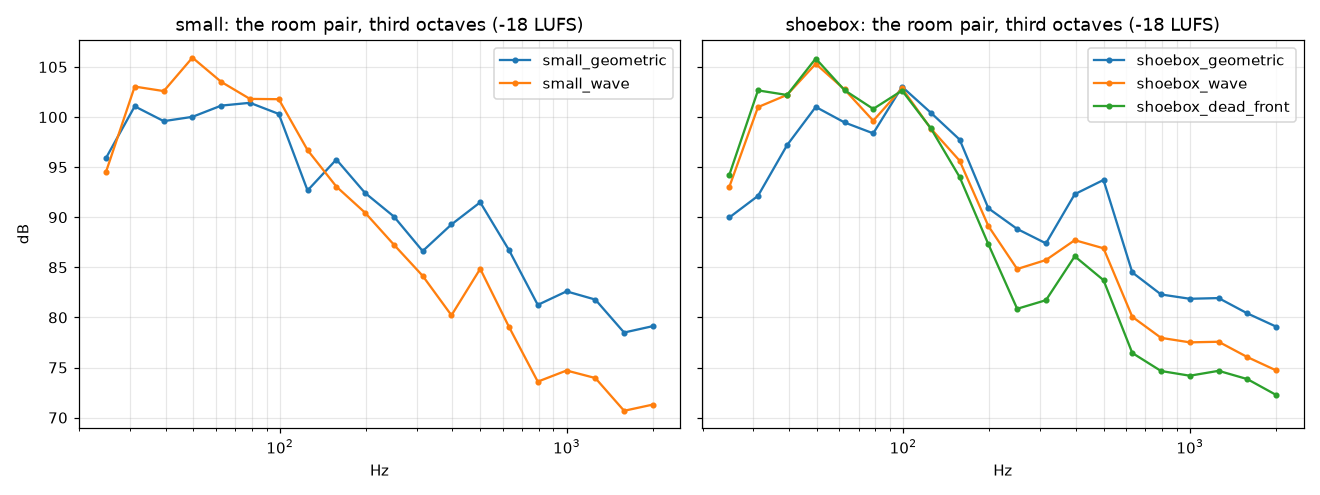
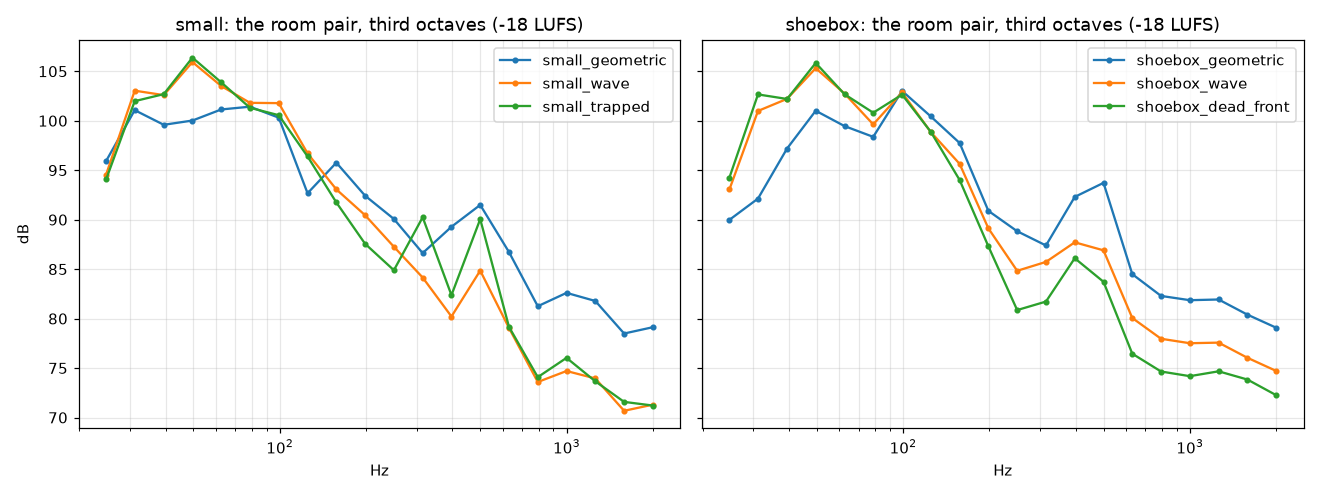
Rooms: wall treatments from their physics
varimu/rooms/materials.py (MIC_ROOM_PLAN.md A5's "materials from physics"): a
treatment's locally reacting impedance from its construction, its
random-incidence absorption by Paris' average per band. Porous layers by
Miki's model (flow resistivity, thickness, an air gap behind), panel absorbers
as a mass on a cavity. New materials mineral_wool_50mm, mineral_wool_100mm,
wool_100mm_gap_100mm, foam_25mm, panel_trap_plywood (~58 Hz), in the Room
view too (a test keeps its list and Python's the same). The demo
wave_demo/small_trapped: every band decays faster.

diff --git a/varimu/rooms/materials.py b/varimu/rooms/materials.py
@@ -1,0 +1,156 @@
+"""Wall treatments from their physics (MIC_ROOM_PLAN.md A5's "materials from physics"): a
+surface's absorption computed from its construction, not looked up.
+
+Every treatment here is a locally reacting surface impedance Z_s(f) (the project's e^{jwt},
+outgoing e^{-jkx}); a plane wave at angle t from the normal reflects with R = (Z_s cos t - rho c)
+/ (Z_s cos t + rho c), and the random-incidence absorption is Paris' average of 1 - |R|^2 over
+the half space (the wave solver's mapping, varimu.rooms.wave, the other way round). Averaged
+over each octave band (log-spaced points) it is the material's row in ROOM_MATERIALS.
+
+- **Porous layers** (mineral wool, fibreglass, foam) from their flow resistivity sigma: Miki's
+  regression of Delany and Bazley's measurements ("Acoustical properties of porous materials:
+  modifications of Delany-Bazley models", J. Acoust. Soc. Jpn (E) 11(1), 1990), valid for
+  0.01 < f / sigma < 1: characteristic impedance Z_c = rho c (1 + 0.070 X^-0.632 - j 0.107
+  X^-0.632) and wavenumber k_c = (w / c)(1 + 0.109 X^-0.618 - j 0.160 X^-0.618), X = f / sigma.
+  A layer d thick on a rigid wall: Z_s = -j Z_c cot(k_c d); over an air gap D: the gap's -j rho
+  c cot(k D) carried through the layer (Z_in = Z_c (Z_L + j Z_c tan k_c d) / (Z_c + j Z_L tan
+  k_c d)), the gap partitioned (locally reacting).
+- **Panel absorbers** (a membrane, a plywood or gypsum panel over a cavity): Z_s = j w m + r +
+  Z_cavity, m the panel's mass per area, r its loss, the cavity empty or filled with a porous
+  layer: a resonance near 60 / sqrt(m D) Hz (m in kg/m^2, D in m), the classic bass trap.
+
+Flow resistivities, masses and losses are provisional (model knowledge: typical published
+values for 30-50 kg/m^3 mineral wool, plywood and gypsum board).
+"""
+
+from __future__ import annotations
+
+from dataclasses import dataclass
+
+import numpy as np
+
+from varimu.separation.room import BANDS_HZ, SPEED_OF_SOUND_M_S
+
+RHO_AIR = 1.204  # kg/m^3 at 20 C
+SOURCE = (
+    "provisional: model knowledge (flow resistivity of 30-50 kg/m^3 mineral wool ~8-20 kPa s/m^2; "
+    "12.5 mm gypsum board ~10 kg/m^2, 12 mm plywood ~7 kg/m^2; panel losses ~0.1-0.3 rho c), "
+    "the models: Miki 1990 (porous), the mass-spring panel"
+)
+
+
+def miki(f_hz, sigma: float) -> tuple[np.ndarray, np.ndarray]:
+    """A porous material's characteristic impedance and wavenumber (Miki 1990)."""
+    f = np.asarray(f_hz, float)
+    x = np.maximum(f, 1e-3) / sigma
+    zc = RHO_AIR * SPEED_OF_SOUND_M_S * (1 + 0.070 * x**-0.632 - 1j * 0.107 * x**-0.632)
+    kc = 2 * np.pi * f / SPEED_OF_SOUND_M_S * (1 + 0.109 * x**-0.618 - 1j * 0.160 * x**-0.618)
+    return zc, kc
+
+
+def _through(zc, kc, d, z_load):
+    """An impedance seen through a layer (characteristic impedance zc, wavenumber kc, d thick)
+    in front of z_load (None: rigid)."""
+    t = np.tan(kc * d)
+    if z_load is None:
+        return -1j * zc / t
+    return zc * (z_load + 1j * zc * t) / (zc + 1j * z_load * t)
+
+
+@dataclass(frozen=True)
+class Porous:
+    """A porous layer `thickness_m` thick, flow resistivity `sigma` (Pa s / m^2), on a rigid
+    wall or over an air gap `gap_m`."""
+
+    sigma: float
+    thickness_m: float
+    gap_m: float = 0.0
+
+    def impedance(self, f_hz) -> np.ndarray:
+        f = np.asarray(f_hz, float)
+        zc, kc = miki(f, self.sigma)
+        load = None
+        if self.gap_m > 0:
+            k0 = 2 * np.pi * np.maximum(f, 1e-3) / SPEED_OF_SOUND_M_S
+            load = -1j * RHO_AIR * SPEED_OF_SOUND_M_S / np.tan(k0 * self.gap_m)
+        return _through(zc, kc, self.thickness_m, load)
+
+
+@dataclass(frozen=True)
+class Panel:
+    """A panel of `mass_kg_m2` per area with loss `loss` (in rho c) over a cavity `cavity_m`
+    deep, empty or filled with a porous layer of flow resistivity `fill_sigma`."""
+
+    mass_kg_m2: float
+    cavity_m: float
+    loss: float = 0.2
+    fill_sigma: float | None = None
+
+    def impedance(self, f_hz) -> np.ndarray:
+        f = np.maximum(np.asarray(f_hz, float), 1e-3)
+        w = 2 * np.pi * f
+        rc = RHO_AIR * SPEED_OF_SOUND_M_S
+        if self.fill_sigma:
+            zc, kc = miki(f, self.fill_sigma)
+            cav = _through(zc, kc, self.cavity_m, None)
+        else:
+            cav = -1j * rc / np.tan(w / SPEED_OF_SOUND_M_S * self.cavity_m)
+        return 1j * w * self.mass_kg_m2 + self.loss * rc + cav
+
+    def resonance_hz(self) -> float:
+        """The mass on the cavity's air spring (empty cavity, low-frequency limit)."""
+        rc2 = RHO_AIR * SPEED_OF_SOUND_M_S**2
+        return float(np.sqrt(rc2 / (self.mass_kg_m2 * self.cavity_m)) / (2 * np.pi))
+
+
+def absorption(z_s: np.ndarray, angles: int = 181) -> np.ndarray:
+    """Random-incidence absorption of a locally reacting surface impedance (Paris)."""
+    th = np.linspace(0, np.pi / 2, angles)
+    c = np.cos(th)[None, :]
+    rc = RHO_AIR * SPEED_OF_SOUND_M_S
+    z = np.atleast_1d(z_s)[:, None]
+    r = (z * c - rc) / (z * c + rc)
+    a = 1 - np.abs(r) ** 2
+    return np.trapezoid(a * np.sin(2 * th)[None, :], th, axis=1)
+
+
+def normal_absorption(z_s: np.ndarray) -> np.ndarray:
+    rc = RHO_AIR * SPEED_OF_SOUND_M_S
+    r = (np.asarray(z_s) - rc) / (np.asarray(z_s) + rc)
+    return 1 - np.abs(r) ** 2
+
+
+def band_absorption(model) -> tuple[float, ...]:
+    """A treatment's random-incidence absorption per octave band (BANDS_HZ), each the mean over
+    15 log-spaced points across its octave; the lowest band over the octave below it too (it
+    stands for every frequency under 125 Hz in the rooms' band weights: a bass trap tuned to
+    ~60 Hz shows there)."""
+    out = []
+    for b, fc in enumerate(BANDS_HZ):
+        lo = fc / (2 * np.sqrt(2)) if b == 0 else fc / np.sqrt(2)
+        f = np.geomspace(lo, fc * np.sqrt(2), 15 if b else 25)
+        out.append(round(float(np.mean(absorption(model.impedance(f)))), 4))
+    return tuple(out)
+
+
+# The treatments offered as materials (ROOM_MATERIALS gets their bands; SCATTERING theirs).
+TREATMENTS = {
+    "mineral_wool_50mm": Porous(sigma=12_000.0, thickness_m=0.05),
+    "mineral_wool_100mm": Porous(sigma=10_000.0, thickness_m=0.10),
+    "wool_100mm_gap_100mm": Porous(sigma=10_000.0, thickness_m=0.10, gap_m=0.10),
+    "foam_25mm": Porous(sigma=20_000.0, thickness_m=0.025),
+    "panel_trap_plywood": Panel(mass_kg_m2=7.0, cavity_m=0.15, loss=0.15, fill_sigma=8_000.0),
+}
+# (An ordinary stud wall stays the measured `gypsum_on_studs`: as a lightly damped panel on an
+# empty cavity it absorbs far less than real walls, whose studs and fixings lose energy.)
+TREATMENT_SCATTERING = {
+    "mineral_wool_50mm": 0.1,
+    "mineral_wool_100mm": 0.1,
+    "wool_100mm_gap_100mm": 0.1,
+    "foam_25mm": 0.15,
+    "panel_trap_plywood": 0.1,
+}
+
+
+def treatment_materials() -> dict[str, tuple[float, ...]]:
+    return {name: band_absorption(m) for name, m in TREATMENTS.items()}

diff --git a/tests/test_rooms.py b/tests/test_rooms.py
@@ -707,8 +707,9 @@ def test_a_source_against_a_wall_and_a_mic_in_an_amp():
     b = _wave_or_skip()
     room = _rect_room()
     mics = [Mic(np.array([3.0, 2.5, 1.2]), aim_vector(0), _omni())]
-    low, _ = wave.responses(room, [np.array([0.01, 2.0, 1.2])], mics, FS, 1 << 16,
-                            crossover_hz=250, rt_s=np.full(7, 0.1), length_s=0.1, backend=b)  # fmt: skip
+    src = [np.array([0.01, 2.0, 1.2])]
+    low, _ = wave.responses(room, src, mics, FS, 1 << 16, crossover_hz=250,
+                            rt_s=np.full(7, 0.1), length_s=0.1, backend=b)  # fmt: skip
     assert np.all(np.isfinite(low)) and np.any(low != 0)
     scene = load_scene({
         "name": "t", "room": {"floor_m": RECT, "materials": dict(zip(
@@ -719,3 +720,44 @@ def test_a_source_against_a_wall_and_a_mic_in_an_amp():
     })  # fmt: skip
     with pytest.raises(ValueError, match="inside amp's body"):
         mic_pressures(scene, FS, [np.ones(100)])
+
+
+# --- treatments from their physics (MIC_ROOM_PLAN.md A5's "materials from physics") ---
+
+
+def test_porous_layers_absorb_as_their_thickness_and_gap_say():
+    from varimu.rooms import materials as m
+
+    f = np.array([125.0, 500.0, 4000.0])
+    thin = m.normal_absorption(m.Porous(10_000.0, 0.05).impedance(f))
+    assert thin[0] < 0.15 and thin[2] > 0.9  # transparent to the bass, black to the highs
+    thick = m.absorption(m.Porous(10_000.0, 0.10).impedance(f))
+    gap = m.absorption(m.Porous(10_000.0, 0.10, gap_m=0.10).impedance(f))
+    base = m.absorption(m.Porous(10_000.0, 0.05).impedance(f))
+    assert base[0] < thick[0] < gap[0]  # thicker, then spaced off the wall: more bass
+    assert np.all(m.absorption(np.full(3, 1e9)) < 1e-3)  # a rigid wall absorbs nothing
+
+
+def test_a_panel_trap_absorbs_at_its_resonance():
+    from varimu.rooms import materials as m
+
+    trap = m.TREATMENTS["panel_trap_plywood"]
+    f = np.geomspace(20, 400, 400)
+    a = m.absorption(trap.impedance(f))
+    assert abs(f[np.argmax(a)] / trap.resonance_hz() - 1) < 0.2
+    bands = m.band_absorption(trap)
+    assert bands[0] > 0.25 and bands[2] < 0.05  # the bass, not the mids
+
+
+def test_the_room_views_surfaces_are_the_rooms_materials():
+    """Every surface the native app's Room view offers (room.rs MATERIALS) exists here."""
+    import re
+
+    from varimu.config import REPO_ROOT
+    from varimu.rooms.shoebox import ROOM_MATERIALS
+
+    src = (REPO_ROOT / "crates" / "varimu-app" / "src" / "room.rs").read_text(encoding="utf-8")
+    start = src.index("pub const MATERIALS")
+    block = src[start : src.index("];", start)]
+    names = re.findall(r'"([a-z0-9_]+)"', block)
+    assert len(names) >= 10 and set(names) <= set(ROOM_MATERIALS)

diff --git a/scripts/room_wave_demo.py b/scripts/room_wave_demo.py
@@ -17,7 +17,12 @@ Variants (each `<variant>/room_pair.wav` at -18 LUFS):
 - `shoebox_geometric`, `shoebox_wave`: the 7 x 5.5 x 3.2 m live room the same way;
 - `shoebox_dead_front` (R7, wave on): the shoebox with heavy drapes on the wall behind the
   players and plaster on the wall behind the pair (a "live end, dead end" room the other way
-  round), against `shoebox_wave`.
+  round), against `shoebox_wave`;
+- `small_trapped` (wave on): the small room treated from physics (varimu/rooms/materials.py):
+  100 mm of wool spaced 100 mm off both side walls (broadband, down into the bass), a plywood
+  panel bass trap (~58 Hz) on the wall behind the pair, against `small_wave`. (Panel traps on
+  whole walls alone made the room livelier above 250 Hz: plywood reflects the mids the
+  furnished walls absorbed.)
 
 `levels.png` and `levels.json`: each variant's third-octave levels at the pair (25 Hz-2 kHz).
 """
@@ -46,12 +51,19 @@ DEAD_FRONT = {
     **SHOEBOX,
     "materials": {**FURNISHED, "faces": {"wall 0": "heavy_drapes", "wall 2": "plaster"}},
 }
+TRAPPED = {
+    **SMALL,
+    "materials": {**FURNISHED, "faces": {"wall 1": "wool_100mm_gap_100mm",
+                                         "wall 3": "wool_100mm_gap_100mm",
+                                         "wall 2": "panel_trap_plywood"}},
+}  # fmt: skip
 VARIANTS = {
     "small_geometric": (SMALL, False),
     "small_wave": (SMALL, True),
     "shoebox_geometric": (SHOEBOX, False),
     "shoebox_wave": (SHOEBOX, True),
     "shoebox_dead_front": (DEAD_FRONT, True),
+    "small_trapped": (TRAPPED, True),
 }
 STEM = {"kick": ("01_Kick", 92.0), "bass": ("09_Bass", 90.0), "piano": ("15_Piano", 86.0)}
 PAIR = {"chain": "omni_clean", "set": {"gain_db_clean": 30}}

diff --git a/varimu/rooms/shoebox.py b/varimu/rooms/shoebox.py
@@ -35,6 +35,7 @@ import numpy as np
 import scipy.fft as sfft
 
 from varimu.rooms.entries import EntryTable
+from varimu.rooms.materials import treatment_materials
 from varimu.separation.room import (
     BANDS_HZ,
     MATERIALS,
@@ -47,6 +48,7 @@ SURFACES = ("x0", "x1", "y0", "y1", "floor", "ceiling")
 # tail; the anechoic check against scripts/mic_print.py).
 ROOM_MATERIALS = {
     **MATERIALS,
+    **treatment_materials(),  # treatments from their physics (varimu.rooms.materials)
     "anechoic": (1.0,) * len(BANDS_HZ),
     "rigid": (0.0,) * len(BANDS_HZ),  # the checks' room (image sources exact, no decay)
 }

diff --git a/crates/varimu-app/src/room_view.rs b/crates/varimu-app/src/room_view.rs
@@ -1488,6 +1488,11 @@ fn material_color(m: &str) -> Color32 {
         "carpet_on_pad" => Color32::from_rgb(0xb0, 0x7a, 0xc8),
         "heavy_drapes" => Color32::from_rgb(0xd0, 0x5c, 0x6c),
         "acoustic_tile" => Color32::from_rgb(0x6c, 0xc0, 0x8c),
+        "mineral_wool_50mm" | "mineral_wool_100mm" | "wool_100mm_gap_100mm" => {
+            Color32::from_rgb(0xe0, 0xc8, 0x5a)
+        }
+        "foam_25mm" => Color32::from_rgb(0x8a, 0x8f, 0xe0),
+        "panel_trap_plywood" => Color32::from_rgb(0xd8, 0x86, 0x3c),
         "anechoic" => Color32::from_rgb(0x50, 0x50, 0x58),
         _ => theme::WIRE,
     }

diff --git a/varimu/rooms/polyroom.py b/varimu/rooms/polyroom.py
@@ -46,6 +46,7 @@ from dataclasses import dataclass, field
 
 import numpy as np
 
+from varimu.rooms.materials import TREATMENT_SCATTERING
 from varimu.separation.room import BANDS_HZ, SPEED_OF_SOUND_M_S, air_absorption_db_per_m
 
 SCATTERING_SOURCE = (
@@ -62,6 +63,8 @@ SCATTERING = {
     "heavy_drapes": 0.4,
     "acoustic_tile": 0.3,
     "anechoic": 0.0,
+    "rigid": 0.0,
+    **TREATMENT_SCATTERING,
 }
 CEILINGS = ("flat", "shed", "gable", "vault")
 OBJECT_MAX_ORDER = 2  # reflections off objects: paths with an object face up to this order

diff --git a/crates/varimu-app/src/room.rs b/crates/varimu-app/src/room.rs
@@ -102,6 +102,12 @@ pub const MATERIALS: &[&str] = &[
     "carpet_on_pad",
     "heavy_drapes",
     "acoustic_tile",
+    // treatments from their physics (varimu/rooms/materials.py)
+    "mineral_wool_50mm",
+    "mineral_wool_100mm",
+    "wool_100mm_gap_100mm",
+    "foam_25mm",
+    "panel_trap_plywood",
     "anechoic",
 ];
 

diff --git a/reports/rooms/wave_demo/README.md b/reports/rooms/wave_demo/README.md
@@ -15,6 +15,7 @@ three stems summed, no room.
 | `shoebox_geometric/` | 7 x 5.5 x 3.2 m, furnished (R5's live room) | the geometric model |
 | `shoebox_wave/` | the same | the wave solver |
 | `shoebox_dead_front/` | the same, drapes on the wall behind the players, plaster behind the pair (R7) | the wave solver |
+| `small_trapped/` | the small room treated from physics: 100 mm wool spaced 100 mm off both side walls, a plywood panel bass trap behind the pair | the wave solver |
 
 **Listen for**
 
@@ -31,6 +32,13 @@ three stems summed, no room.
   it, the front reflections gone; the mids and highs drier (RT at 1 kHz 0.78 -> 0.65 s) but
   the bass *longer* (125 Hz: 0.52 -> 0.74 s): the plaster wall reflects the low end the
   furnished one absorbed. Uneven treatment changes the balance, not just the amount.
+
+- `small_wave` against `small_trapped`: the same small room treated with absorbers whose
+  absorption comes from their construction (`varimu/rooms/materials.py`: Miki's porous model,
+  a mass-spring panel): every band decays faster (125 Hz 0.34 -> 0.25 s, 500 Hz 0.56 -> 0.38
+  s): a tighter, drier room, the modes still there but shorter. (Plywood traps on whole walls
+  alone made the room livelier above 250 Hz: they reflect the mids the furnished walls
+  absorbed. Real control rooms pair them with porous panels, as here.)
 
 `levels.png` / `levels.json`: each variant's third-octave levels at the pair (loudness-matched).
 

diff --git a/docs/ROOM_LOOP_PLAN.md b/docs/ROOM_LOOP_PLAN.md
@@ -479,6 +479,16 @@ change differ from the night's demos in the tail's realization (and those dips).
 A source within a cell of a wall runs in the wave solver (its injection renormalized over the
 room's cells); a mic inside a directional source's body is refused (Python and the Room view).
 
+**Treatments from their physics** (MIC_ROOM_PLAN.md A5's "materials from physics";
+`varimu/rooms/materials.py`): a surface's locally reacting impedance from its construction,
+its random-incidence absorption by Paris' average per band (the lowest band over 44-177 Hz:
+it stands for everything under 125 Hz). Porous layers by Miki's model (flow resistivity,
+thickness, an air gap behind), panel absorbers as a mass on a cavity (empty or filled).
+Offered as materials beside the measured ones: `mineral_wool_50mm`, `mineral_wool_100mm`,
+`wool_100mm_gap_100mm`, `foam_25mm`, `panel_trap_plywood` (~58 Hz, 0.94 at 50 Hz); the Room
+view lists them. An ordinary stud wall stays the measured `gypsum_on_studs` (as a lightly
+damped panel it under-absorbs). The demo `wave_demo/small_trapped`.
+
 **Not done / limits.** Second-order diffraction (over a box's two edges: deep shadows behind
 thick objects come out too dark; thin panels are plates, so gobos are fine). Paths reflecting
 after an edge (edge then wall) aren't in the geometric part (below the crossover the wave

diff --git a/CLAUDE.md b/CLAUDE.md
@@ -514,7 +514,10 @@ micro-images sharing a spectrum); the Room view's OBJECTS. **Directional sources
 plan's "Later", the same night): `varimu/rooms/directivity.py`, a cap on a sphere (presets
 voice, amp_1x12, amp_2x12, bass_1x15; a scene source's `directivity` and `aim`; on-axis
 normalized), images and diffraction weighted in their emission directions, rays started with
-|D|^2, the wave solver with the source's body in its grid. Demos: `scripts/room_wave_demo.py`
+|D|^2, the wave solver with the source's body in its grid. **Treatments from their physics**
+(`varimu/rooms/materials.py`: Miki porous layers with an optional gap, panel bass traps; the
+materials `mineral_wool_50mm`, `mineral_wool_100mm`, `wool_100mm_gap_100mm`, `foam_25mm`,
+`panel_trap_plywood`). Demos: `scripts/room_wave_demo.py`
 -> reports/rooms/wave_demo/, `scripts/room_gobo_demo.py` -> reports/rooms/gobo_demo/,
 `scripts/room_source_demo.py` -> reports/rooms/source_demo/, `room_demo.py --wave 500 --out
 reports/rooms/demo_wave` (READMEs there). Open: the user listens (reports/rooms/LISTEN.md); the Room view's new controls were seen drawn

diff --git a/docs/MIC_ROOM_PLAN.md b/docs/MIC_ROOM_PLAN.md
@@ -238,9 +238,9 @@ at a frequency (from the FDTD run) is a cheap aid for placing mics.
    image sources' spectra and the FDTD below a crossover, first-order edge diffraction; every
    done-when above checked there (the modes within 0.05%, FDTD against exact image sources
    within -38 dB, the ray-traced RT against Eyring's, the L-room's hidden source at its
-   corner path, GPU against the f64 references). "Materials from physics" is the one part
-   left: the walls are tabulated random-incidence absorption per octave, not porous or panel
-   models.
+   corner path, GPU against the f64 references). Materials from physics: treatments
+   (porous layers by Miki's model, panel absorbers as mass on a cavity) computed from their
+   construction (`varimu/rooms/materials.py`); ordinary walls stay the measured tables.
 6. **A6. The Room view** and its prints into session tracks.
 7. **A7. More mics:** the RCA 44-BX, the SM57, the C12; the small omni's electronics.
    The SM57 (and SM58) has its own plan, [SM57_PLAN.md](SM57_PLAN.md) (2026-11-04;

diff --git a/reports/rooms/LISTEN.md b/reports/rooms/LISTEN.md
@@ -22,6 +22,10 @@ Headphones or good monitors; the low-end differences need a full-range system.
   behind the players, plaster behind the mics. The mids and highs drier, the bass longer (the
   plaster reflects what the furnished wall absorbed).
 
+- `small_wave/room_pair.wav` against `small_trapped/room_pair.wav`: the small room treated with
+  absorbers computed from their construction (100 mm of wool spaced off the side walls, a
+  plywood bass trap): tighter and drier, every band decaying faster.
+
 **4. Gobos and edge diffraction (R11).** `gobo_demo/`
 - `open/guitar_spot__vocal.wav` against `gobo/guitar_spot__vocal.wav`: the vocal's bleed into
   the guitar's omni, without and with a gobo between the players (live room: a few dB, the
